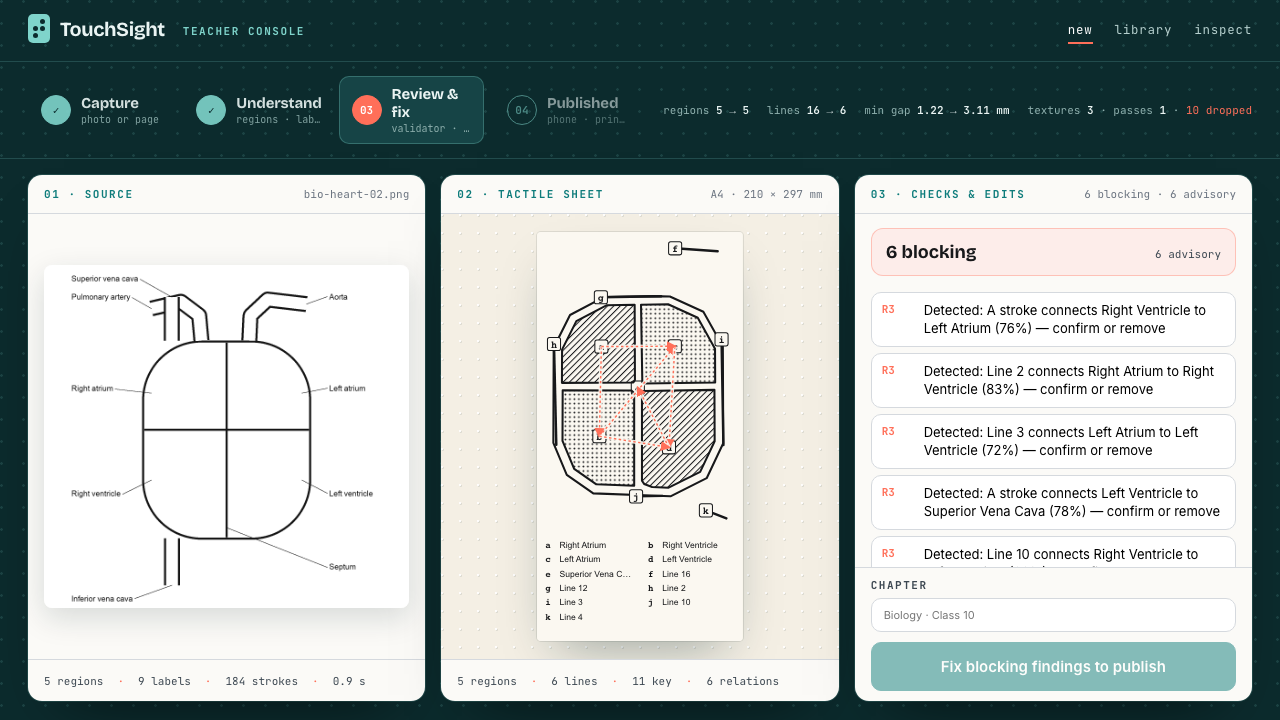
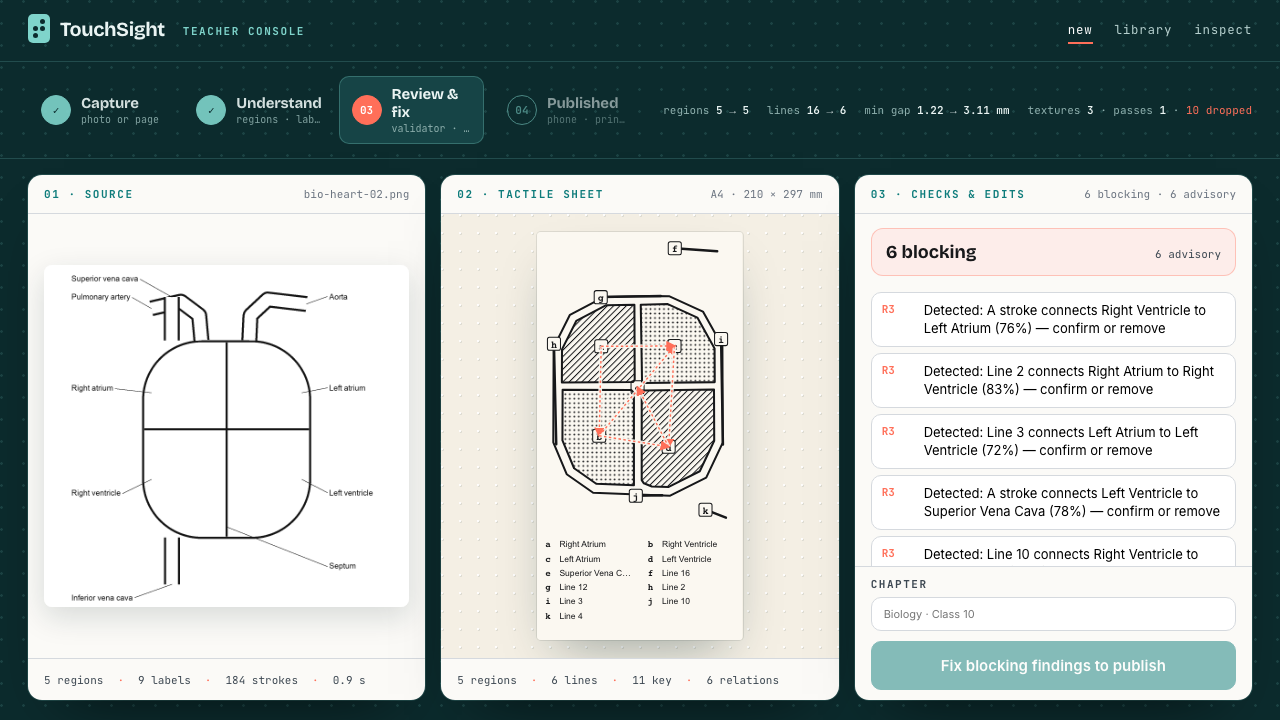
Console fills the viewport exactly

diff --git a/app/src/routes/teacher/teacher.css b/app/src/routes/teacher/teacher.css
@@ -8,7 +8,7 @@
 .tc-nav a { color: #b6d0ce; text-decoration: none; padding: 4px 0; border-bottom: 2px solid transparent; }
 .tc-nav a.active { color: #fff; border-bottom-color: var(--coral); }
 
-.wb { height: calc(100vh - 61px); display: grid; grid-template-rows: auto minmax(0, 1fr); min-height: 0; }
+.wb { height: calc(100vh - 62px); display: grid; grid-template-rows: auto minmax(0, 1fr); min-height: 0; }
 .wb-steps { display: grid; grid-template-columns: 1fr auto; align-items: center; gap: 24px; padding: 14px 28px; border-bottom: 1px solid rgba(127,212,203,.2); }
 .wb-steps ol { list-style: none; margin: 0; padding: 0; display: grid; grid-template-columns: repeat(4, 1fr); gap: 10px; max-width: 980px; }
 .wb-steps li { display: grid; grid-template-columns: 30px 1fr; align-items: center; gap: 10px; padding: 8px 12px; border-radius: 10px; opacity: .55; border: 1px solid transparent; transition: opacity .3s, background .3s; }
